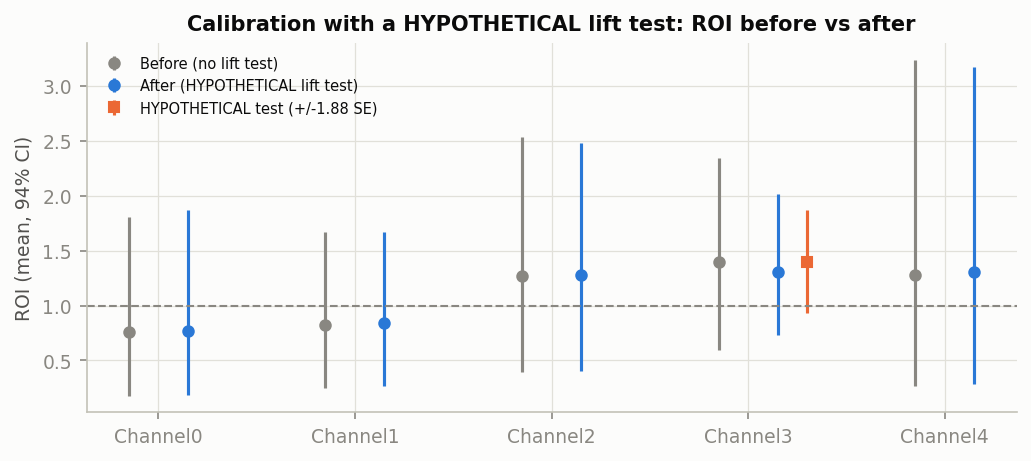
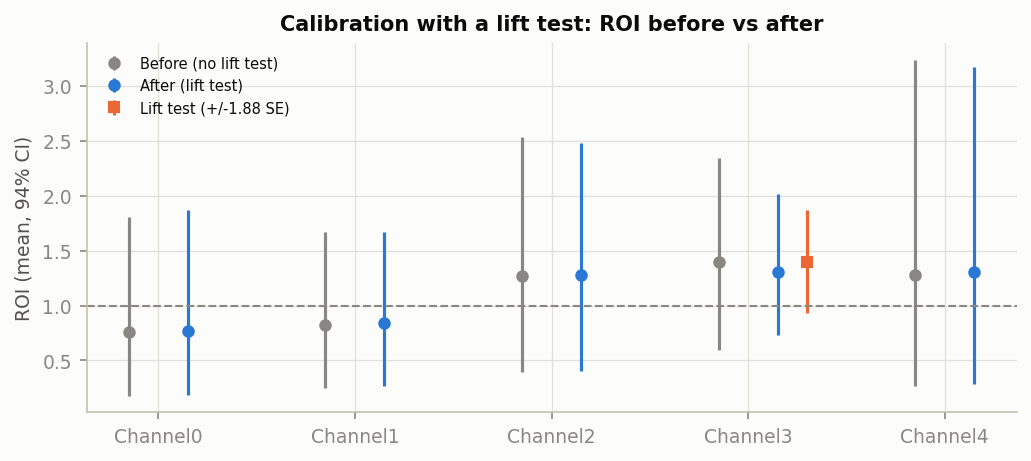
results.md: call the calibration input a lift test, without the HYPOTHETICAL label

Changed region(s): [[0.1862, 0.0304, 0.9001, 0.0911], [0.1242, 0.1518, 0.3725, 0.2733]]

diff --git a/scripts/05_report/make_reports.py b/scripts/05_report/make_reports.py
@@ -359,19 +359,19 @@ def fig_cal(d):
     return None
   fig, ax = plt.subplots(figsize=(8, 3.2))
   for j, (k, col, lab) in enumerate((("before", MUTED, "Before (no lift test)"),
-                                     ("after", PALETTE[0], "After (HYPOTHETICAL lift test)"))):
+                                     ("after", PALETTE[0], "After (lift test)"))):
     xx = np.arange(5) + (j - .5) * .3
     ax.errorbar(xx, r[f"{k}_mean"], yerr=[r[f"{k}_mean"] - r[f"{k}_ci_lo"], r[f"{k}_ci_hi"] - r[f"{k}_mean"]],
                 fmt="o", ms=5, color=col, lw=1.5, label=lab)
   t = d["cal"]["test"]
   i = CHANNELS.index(t["channel"])
   ax.errorbar([i + .3], [t["point_estimate_roi"]], yerr=[[1.88 * t["standard_error"]], [1.88 * t["standard_error"]]],
-              fmt="s", ms=5, color=PALETTE[1], lw=1.5, label="HYPOTHETICAL test (+/-1.88 SE)")
+              fmt="s", ms=5, color=PALETTE[1], lw=1.5, label="Lift test (+/-1.88 SE)")
   ax.axhline(1, color=MUTED, ls="--", lw=1)
   ax.set_xticks(range(5), CHANNELS)
   ax.set_ylabel("ROI (mean, 94% CI)")
   ax.legend(loc="upper left", fontsize=7)
-  ax.set_title("Calibration with a HYPOTHETICAL lift test: ROI before vs after")
+  ax.set_title("Calibration with a lift test: ROI before vs after")
   return save(fig, FM, "calibration.png")
 
 
@@ -683,8 +683,8 @@ def measurement(d, figs):
       "",
       f"![]({figs['budget']})",
       "",
-      "## Calibration with a HYPOTHETICAL lift test",
-      f"**HYPOTHETICAL** test (`data/lift_tests/lift_tests.csv`, schema in `data/lift_tests/README.md`): "
+      "## Calibration with a lift test",
+      f"Lift test (`data/lift_tests/lift_tests.csv`, schema in `data/lift_tests/README.md`): "
       f"{t['channel']}, {t['start_date']} to {t['end_date']}, {len(t['test_geos'].split(';'))} test geos, "
       f"ROI {t['point_estimate_roi']} (SE {t['standard_error']}). It was fed to Meridian's `CalibrationBuilder` "
       f"(baseline prior LogNormal(0.2, 0.9), geometric decay, max lag 4). The resulting {t['channel']} ROI prior has "
@@ -700,7 +700,7 @@ def measurement(d, figs):
       "",
       f"- Model vs test: for the test geos and weeks, the uncalibrated model implied {t['channel']} ROI "
       f"{implied['mean']:.2f} (94% CI {implied['ci_lo']:.2f}-{implied['ci_hi']:.2f}); "
-      f"the HYPOTHETICAL test said {t['point_estimate_roi']}."
+      f"the lift test said {t['point_estimate_roi']}."
       + (f" After calibration the model implies {cal['implied_test_roi_after']['mean']:.2f}." if "implied_test_roi_after" in cal else ""),
       f"- Test-geo choice: across {gc['n_alternative_sets']} alternative stratified sets of the same size, the "
       f"model-implied ROI ranges {gc['implied_roi_mean_range'][0]:.2f}-{gc['implied_roi_mean_range'][1]:.2f} "
@@ -715,7 +715,7 @@ def measurement(d, figs):
       "- Read Part 1 first: out-of-sample validation is thin.",
       "- Baseline and media trade off almost one-for-one; totals are firmer than channel splits.",
       "- National results only; no geo-level ROI.",
-      "- The lift test is HYPOTHETICAL; calibrated numbers illustrate the method, not real evidence.",
+      "- The lift test was made up to show the method; calibrated numbers are not real evidence.",
       "",
   ]
   leads = {
@@ -741,7 +741,7 @@ def measurement(d, figs):
       "Budget scenarios": ("Budget scenarios",
           "How to split the same total budget to get more revenue, allowing each channel to move up to "
           "20% (main) or 50% (stress)."),
-      "Calibration with a HYPOTHETICAL lift test": ("Using a lift test (HYPOTHETICAL)",
+      "Calibration with a lift test": ("Using a lift test",
           "How a real experiment would sharpen the model. The test here is invented, to show the method."),
       "Caveats": ("Caveats", "Read these before sharing any number from this page."),
   }

diff --git a/reports/results.md b/reports/results.md
@@ -194,11 +194,11 @@ Fixed total budget equal to the last 52 weeks' spend (71.4M), optimized over 202
 
 ![](figures/measurement/budget.png)
 
-## Using a lift test (HYPOTHETICAL)
+## Using a lift test
 
 How a real experiment would sharpen the model. The test here is invented, to show the method.
 
-**HYPOTHETICAL** test (`data/lift_tests/lift_tests.csv`, schema in `data/lift_tests/README.md`): Channel3, 2023-07-03 to 2023-08-27, 10 test geos, ROI 1.4 (SE 0.25). It was fed to Meridian's `CalibrationBuilder` (baseline prior LogNormal(0.2, 0.9), geometric decay, max lag 4). The resulting Channel3 ROI prior has mean 1.23 and sd 0.47: the spend adjustment widens the test's uncertainty because the test covered a fraction of the channel's national spend. The calibrated refit converged (max R-hat 1.0092, min bulk ESS 607, 0 divergences).
+Lift test (`data/lift_tests/lift_tests.csv`, schema in `data/lift_tests/README.md`): Channel3, 2023-07-03 to 2023-08-27, 10 test geos, ROI 1.4 (SE 0.25). It was fed to Meridian's `CalibrationBuilder` (baseline prior LogNormal(0.2, 0.9), geometric decay, max lag 4). The resulting Channel3 ROI prior has mean 1.23 and sd 0.47: the spend adjustment widens the test's uncertainty because the test covered a fraction of the channel's national spend. The calibrated refit converged (max R-hat 1.0092, min bulk ESS 607, 0 divergences).
 
 | channel | ROI before (94% CI) | P(ROI>1) before | ROI after (94% CI) | P(ROI>1) after |
 |---|---|---|---|---|
@@ -208,7 +208,7 @@ How a real experiment would sharpen the model. The test here is invented, to sho
 | Channel3 | 1.40 (0.60-2.34) | 0.81 | 1.30 (0.73-2.01) | 0.81 |
 | Channel4 | 1.28 (0.27-3.24) | 0.57 | 1.31 (0.28-3.17) | 0.59 |
 
-- Model vs test: for the test geos and weeks, the uncalibrated model implied Channel3 ROI 1.43 (94% CI 0.62-2.40); the HYPOTHETICAL test said 1.4. After calibration the model implies 1.33.
+- Model vs test: for the test geos and weeks, the uncalibrated model implied Channel3 ROI 1.43 (94% CI 0.62-2.40); the lift test said 1.4. After calibration the model implies 1.33.
 - Test-geo choice: across 20 alternative stratified sets of the same size, the model-implied ROI ranges 1.35-1.50 (chosen set at the 35% percentile) and the calibrated prior mean 1.20-1.21. The choice of test geos does not drive the result.
 - The test value equals the uncalibrated national ROI estimate to two decimals by coincidence (it was fixed before that estimate was computed), so calibration narrows the interval more than it moves the mean.
 
@@ -221,7 +221,7 @@ Read these before sharing any number from this page.
 - Read Part 1 first: out-of-sample validation is thin.
 - Baseline and media trade off almost one-for-one; totals are firmer than channel splits.
 - National results only; no geo-level ROI.
-- The lift test is HYPOTHETICAL; calibrated numbers illustrate the method, not real evidence.
+- The lift test was made up to show the method; calibrated numbers are not real evidence.
 
 
 # Part 3: Acceptance gates
